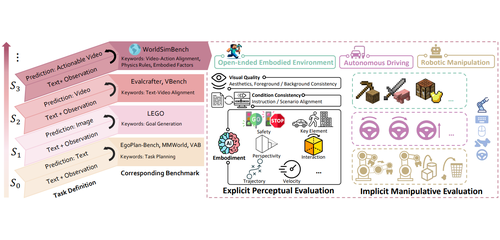
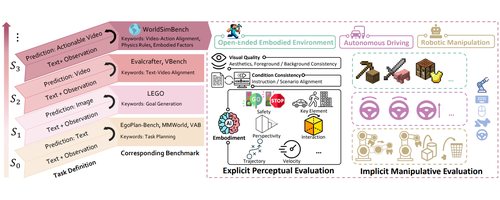
update paper

diff --git a/assets/css/main.scss b/assets/css/main.scss
@@ -47,32 +47,24 @@
     flex-direction: row;
     flex-wrap: wrap;
     border-bottom: 1px #efefef solid;
-    padding: 2em 0;
-    margin-bottom: 0;
+    padding: 2em 0 2em 0;
     
-    &:last-child {
-        border-bottom: none; // 最后一项不显示横线
-      }
 
-    .paper-box-image {
-    flex: 0 0 320px; // 固定宽度
-    margin-right: 2em;
-    display: flex;
-    align-items: center;
-    justify-content: center;
-
-    img {
+    .paper-box-image{
+        justify-content: center;
+        display: flex;
+        width: 100%;
+        order: 2;
+        img {
+            max-width: 400px;
+            box-shadow: 3px 3px 6px #888;
+            object-fit: cover;
+        }
+    }
+    
+    .paper-box-text{
         max-width: 100%;
-        max-height: 180px; // 保证图片高度一致
-        object-fit: cover;
-        display: block;
-        box-shadow: 3px 3px 6px #888;
-    }
-    }
-
-    .paper-box-text {
-    flex: 1 1 0;
-    min-width: 0;
+        order: 1;
     }
     
     @include breakpoint($medium) {

diff --git a/images/rewrite.py b/images/rewrite.py
@@ -1,7 +1,7 @@
 import os
 from PIL import Image
 
-def resize_and_pad(img, size=(500, 240), color=(255, 255, 255)):
+def resize_and_pad(img, size=(500, 200), color=(255, 255, 255)):
     # 保持比例缩放
     img.thumbnail(size, Image.LANCZOS)
     # 创建白色背景

diff --git a/_pages/about.md b/_pages/about.md
@@ -19,7 +19,7 @@ redirect_from:
 
 Hi there! I am now an Researcher at Shanghai AI Lab. Before joining Shanghai AI Lab, I was a Research Engineer at Machine Intelligence Technology Lab, DAMO Academy, Alibaba Group, under the guidance of [Rong Jin](https://scholar.google.com/citations?hl=zh-CN&user=CS5uNscAAAAJ) and [Ping Tan](https://pingtan.people.ust.hk/index.html). I have been engaged in AI research and development since 2019. I am fortunate to have gained industry experience at [Alibaba DAMO Academy](https://damo.alibaba.com/?language=en), [Tencent AI Lab](https://ailab.tencent.com/ailab/en/index/), and Baidu IDL.
 
-<span style="color: red; font-weight: bold;">NOTE:</span> We are hiring full-time Researcher and Engineer， motivated interns and joint-training PhD students. If you are enthusiastic about Safety AI and wish to join us, contact me at lilijun@pjlab.org.cn directly!
+<span style="color: red; font-weight: bold;">NOTE:</span> We are hiring full-time Researcher and Engineer, motivated interns and joint-training PhD students. If you are enthusiastic about Safe AI and wish to join us, contact me at lilijun@pjlab.org.cn directly!
 
 _If interested in collaboration or discussion, please email me._
 
@@ -56,6 +56,8 @@ Preprint, 2025
 </div>
 </div>
 
+<!-- ------------------------------------------------------------- -->
+
 <div class='paper-box'><div class='paper-box-image'><div><div class="badge">Preprint</div><img src='images/paper_imgs/visco.png' alt="sym" width="100%"></div></div>
 <div class='paper-box-text' markdown="1">
 
@@ -69,6 +71,8 @@ Preprint, 2025
 
 </div>
 </div>
+
+<!-- ------------------------------------------------------------- -->
 
 <div class='paper-box'><div class='paper-box-image'><div><div class="badge">ICML 2025</div><img src='images/paper_imgs/worldsimbench.png' alt="sym" width="100%"></div></div>
 <div class='paper-box-text' markdown="1">
@@ -84,6 +88,8 @@ ICML 2025
 </div>
 </div>
 
+<!-- ------------------------------------------------------------- -->
+
 <div class='paper-box'><div class='paper-box-image'><div><div class="badge">CVPR 2025</div><img src='images/paper_imgs/t2isafety.png' alt="sym" width="100%"></div></div>
 <div class='paper-box-text' markdown="1">
 
@@ -97,6 +103,8 @@ CVPR 2025
 
 </div>
 </div>
+
+<!-- ------------------------------------------------------------- -->
 
 <div class='paper-box'><div class='paper-box-image'><div><div class="badge">Preprint</div><img src='images/paper_imgs/mis_bench.png' alt="sym" width="100%"></div></div>
 <div class='paper-box-text' markdown="1">
@@ -112,6 +120,8 @@ Preprint, 2025
 </div>
 </div>
 
+<!-- ------------------------------------------------------------- -->
+
 <div class='paper-box'><div class='paper-box-image'><div><div class="badge">ACL 2024 </div><img src='images/paper_imgs/psysafe.png' alt="sym" width="100%"></div></div>
 <div class='paper-box-text' markdown="1">
 
@@ -125,6 +135,8 @@ Zaibin Zhang, Yongting Zhang, **Lijun Li**, Hongzhi Gao, Lijun Wang, Huchuan Lu,
 
 </div>
 </div>
+
+<!-- ------------------------------------------------------------- -->
 
 <div class='paper-box'><div class='paper-box-image'><div><div class="badge">ACL 2024 Findings</div><img src='images/paper_imgs/salad-bench.png' alt="sym" width="100%"></div></div>
 <div class='paper-box-text' markdown="1">
@@ -140,6 +152,8 @@ ACL 2024 Findings
 </div>
 </div>
 
+<!-- ------------------------------------------------------------- -->
+
 <div class='paper-box'><div class='paper-box-image'><div><div class="badge">ICCV 2023</div><img src='images/paper_imgs/renderih.png' alt="sym" width="100%"></div></div>
 <div class='paper-box-text' markdown="1">
 
@@ -153,6 +167,8 @@ ICCV 2023
 
 </div>
 </div>
+
+<!-- ------------------------------------------------------------- -->
 
 <div class='paper-box'><div class='paper-box-image'><div><div class="badge">Preprint</div><img src='images/paper_imgs/action_detection.png' alt="sym" width="100%"></div></div>
 <div class='paper-box-text' markdown="1">
@@ -168,6 +184,8 @@ Winning solution for Action Detection Track of EPIC@CVPR2022
 </div>
 </div>
 
+<!-- ------------------------------------------------------------- -->
+
 <div class='paper-box'><div class='paper-box-image'><div><div class="badge">ICML 2019</div><img src='images/paper_imgs/nattack.png' alt="sym" width="100%"></div></div>
 <div class='paper-box-text' markdown="1">
 
@@ -181,6 +199,8 @@ ICML 2019
 
 </div>
 </div>
+
+<!-- ------------------------------------------------------------- -->
 
 # 🖊 Research Experiences
 - 2023 - Present, Researcher, Shanghai AI Lab, Beijing, China.
